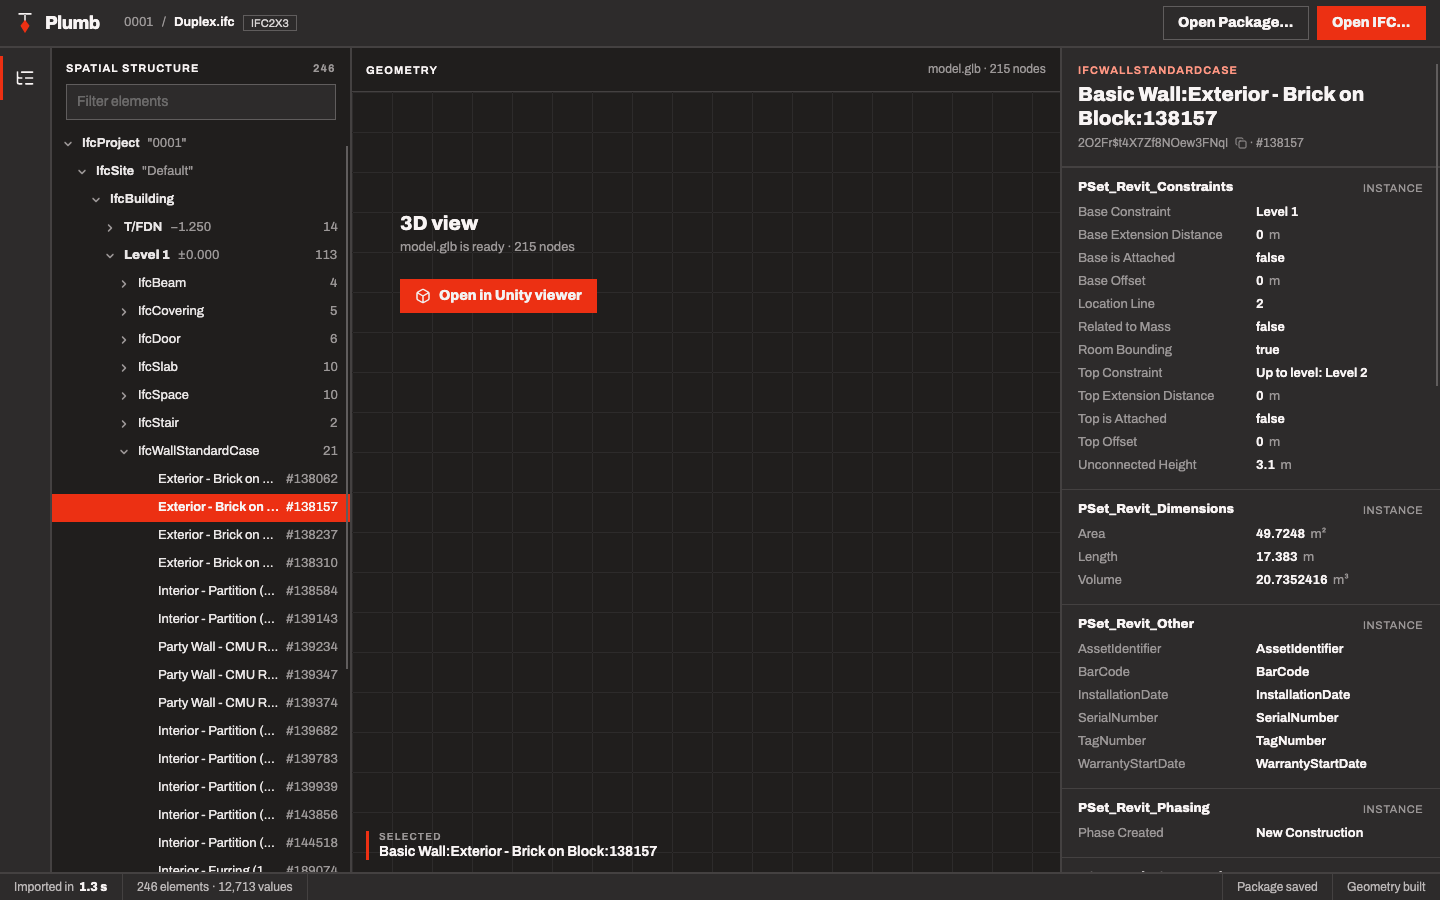
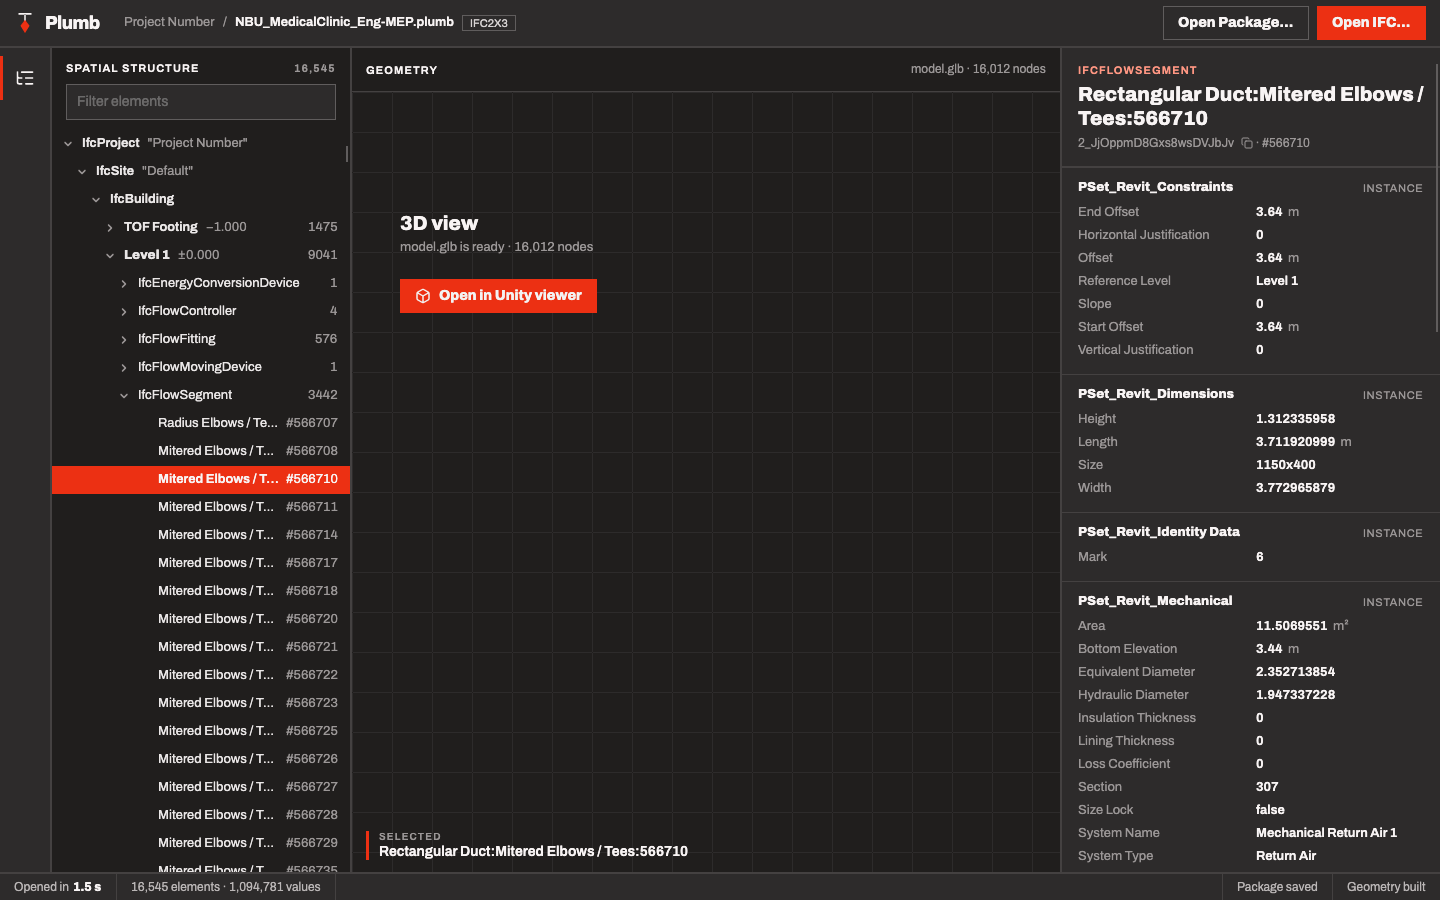
docs: show the start screen and two large models in the README
The start screen lists real recent models with the pinned one on top.
The app screenshot is the 16,545-element NBU Medical Clinic MEP model,
and the viewer screenshots are that model and the NVW DCR LOD300
architecture model, cropped to the model.

diff --git a/README.md b/README.md
@@ -24,9 +24,14 @@ Desktop viewer for IFC building models. Open an `.ifc` file, browse its spatial 
     V
  ~~~~~~~~~~~~~~~~~~~~~~~~~~~~~~~~~~~~~~~~
 ```
-![Plumb with the Duplex model open: spatial tree on the left, properties of the selected wall on the right](docs/plumb.png)
+![The start screen: open actions on the left, recent models with the pinned one on top on the right](docs/start.png)
 
-![The Unity viewer with the same wall selected](docs/viewer.png)
+![Plumb with the NBU Medical Clinic MEP model open: 16,545 elements, the spatial tree on the left, the properties of a duct on the right](docs/plumb.png)
+
+<p>
+  <img src="docs/viewer-clinic.png" width="49%" alt="The Unity viewer showing the mechanical, electrical and plumbing model of the NBU Medical Clinic, 16,012 meshes">
+  <img src="docs/viewer-nvw.png" width="49%" alt="The Unity viewer showing the NVW DCR LOD300 architecture model, 7,354 meshes">
+</p>
 
 ## Features
 
